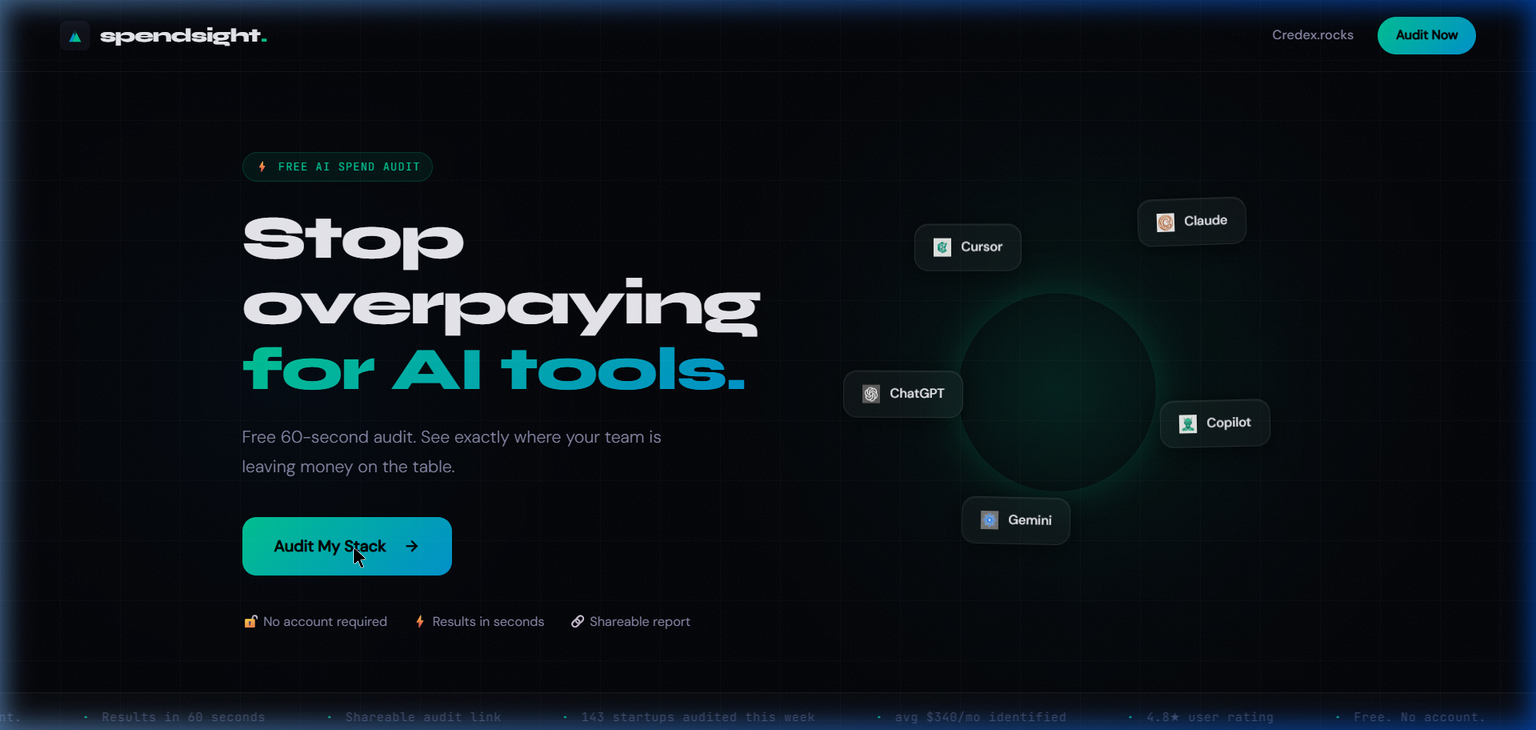
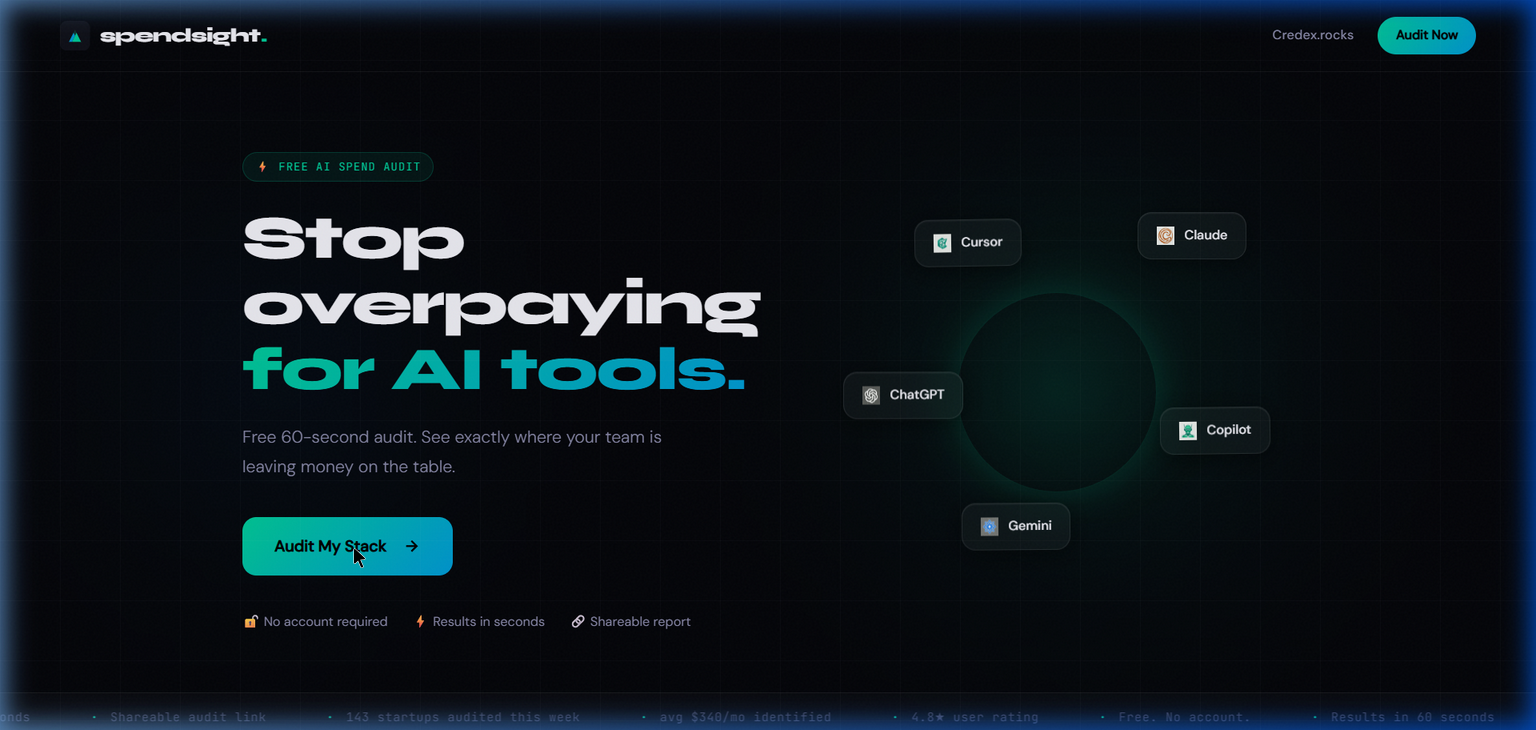
docs: add 5 real app screenshots to README (landing, form step 1/2, results, Credex CTA)

diff --git a/README.md b/README.md
@@ -32,11 +32,22 @@ SpendSight audits your team's AI subscription stack — Cursor, Claude, ChatGPT,
 
 ## 📸 The Experience
 
-| Landing | Audit Form | Results |
-|:---:|:---:|:---:|
-| ![Landing Page](public/screenshot-landing.png) | ![Audit Form](public/screenshot-form.png) | ![Audit Results](public/screenshot-results.png) |
+**🔗 Live at:** [https://spendsight-chi.vercel.app/](https://spendsight-chi.vercel.app/)
 
-**🔗 Try it live:** [https://spendsight-chi.vercel.app/](https://spendsight-chi.vercel.app/)
+### Landing Page
+![Landing Page — Stop overpaying for AI tools](public/screenshot-landing.png)
+
+### Step 1 — Configure Your Team
+![Audit Form Step 1 — Team size and primary use case](public/screenshot-form-step1.png)
+
+### Step 2 — Select Your Tools
+![Audit Form Step 2 — Tool selector with plans and seat counts](public/screenshot-form-step2.png)
+
+### Results — Instant Savings Breakdown
+![Audit Results — $2000/mo savings identified, AI summary, tool breakdown](public/screenshot-results.png)
+
+### Credex Credits CTA + Lead Capture
+![Credex CTA — You qualify for credits + Get full report via email](public/screenshot-credex-cta.png)
 
 ---
 